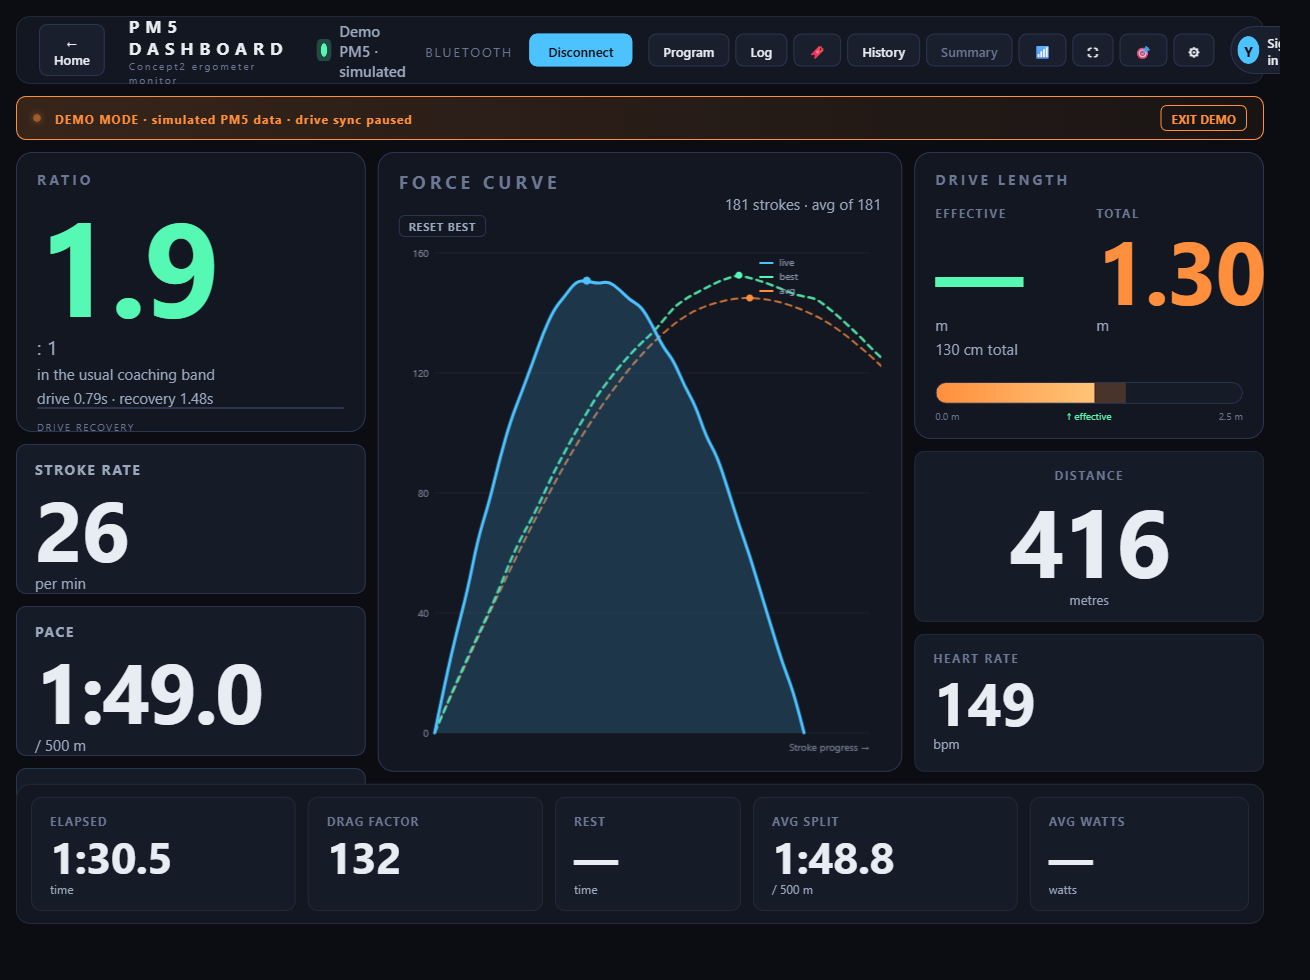
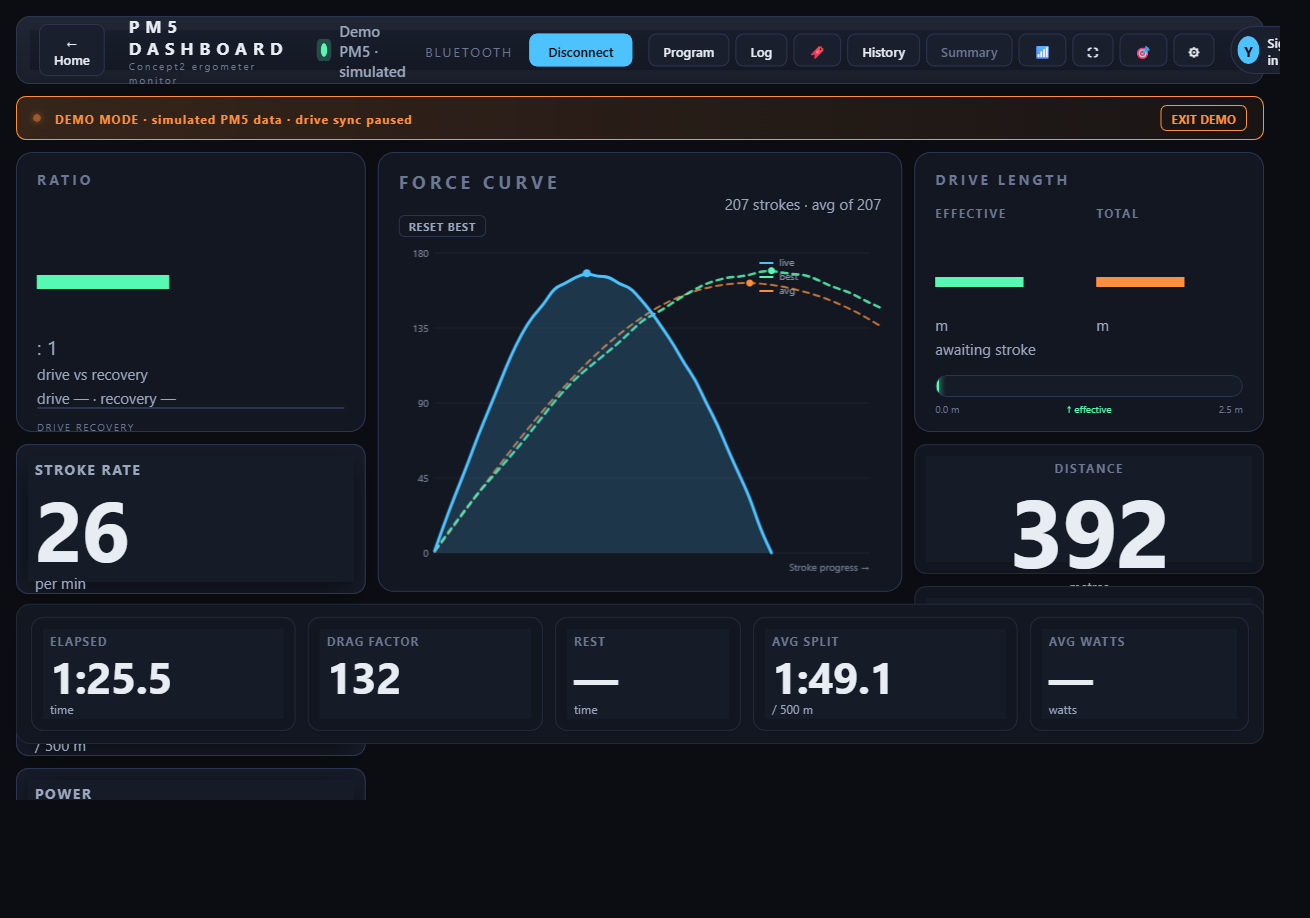
v1.17.0 — Live Monitor 2.0
Polish pass on the live rowing screen so it reads like a serious performance
display. CSS-only — no PM5/Bluetooth parsing or metric math changed.

- Stable telemetry: big live numbers (metric cards + fullscreen race mode)
  use tabular figures so digits don't jitter width stroke-to-stroke.
- Card hierarchy: subtle depth on every metric card + a stronger lift on
  primary cards (consistent with v1.16.0), rounder corners.
- Theme-safe target zones: in/near/out tints were hardcoded green/amber/red
  (wrong on Crimson/Forest/Ocean/Light) — now a calm theme-derived left
  accent (var(--good)/var(--accent-2)/var(--warn)), no flashing. Same fix for
  the Heart focus-preset pill.
- Workout progress bar: gradient panel + crisper border + soft fill glow.
- Mobile fix: the fixed 3-column monitor grid had no phone breakpoint and
  overflowed horizontally below ~520px; it now collapses to a single
  scrollable column at <=600px so cards stack full-width with no overflow.

Verified in Demo Mode (force curve, cards, race mode) at desktop + 375px;
replay / history / Performance unregressed. Refreshed live-monitor.png (demo
data). Bundle 597 -> 598 KB (under the 600 KB guard). No club / Firestore /
security changes; firestore.rules untouched.

diff --git a/pm5web/index.html b/pm5web/index.html
@@ -168,18 +168,33 @@
     height: 100%;
     min-height: 0;
   }
+  /* v1.17.0 — phones: collapse the fixed 3-column monitor grid to a single
+     scrollable column so metric cards stack full-width with no horizontal
+     overflow (2fr/3fr/2fr + 160px card min-width overflowed below ~520px). */
+  @media (max-width: 600px) {
+    #monitorView.active {
+      grid-template-columns: 1fr;
+      grid-template-rows: none;
+      overflow-y: auto;
+    }
+    #monitorView.active .left-col,
+    #monitorView.active .center-col,
+    #monitorView.active .right-col { height: auto; }
+    #monitorView.active .hero { min-height: 0; }
+  }
 
   /* Workout progress bar (top of monitor view) */
   .workout-bar {
     grid-column: 1 / -1;
-    background: var(--bg-panel);
-    border: 1px solid var(--border);
+    background: linear-gradient(180deg, var(--bg-panel-hi), var(--bg-panel));
+    border: 1px solid var(--border-bright);
     border-radius: 12px;
     padding: 12px 18px;
     display: flex;
     align-items: center;
     gap: 18px;
     min-height: 68px;
+    box-shadow: 0 2px 10px -4px rgba(0,0,0,.35);
   }
   .wb-info {
     display: flex;
@@ -207,16 +222,17 @@
     min-width: 0;
   }
   .wb-progress {
-    height: 14px;
-    background: var(--bg-card);
+    height: 15px;
+    background: var(--bg-base);
     border: 1px solid var(--border-bright);
-    border-radius: 7px;
+    border-radius: 8px;
     overflow: hidden;
   }
   .wb-progress-fill {
     height: 100%;
     width: 0%;
     background: linear-gradient(90deg, var(--accent), var(--accent-3));
+    box-shadow: 0 0 10px -1px var(--accent);
     transition: width .25s;
   }
   .wb-progress-labels {
@@ -484,8 +500,8 @@
                                             border-color: var(--accent-3); }
   .focus-card.theme-power     .mp-primary { background: var(--accent-2);
                                             border-color: var(--accent-2); }
-  .focus-card.theme-heart     .mp-primary { background: #ff6b6b;
-                                            border-color: #ff6b6b; }
+  .focus-card.theme-heart     .mp-primary { background: var(--warn);
+                                            border-color: var(--warn); }
   .focus-card.theme-race      .mp-primary { background: var(--accent-2);
                                             border-color: var(--accent-2); }
   .focus-card .fc-active-badge {
@@ -918,13 +934,14 @@
   .card {
     background: var(--bg-card);
     border: 1px solid var(--border);
-    border-radius: 10px;
+    border-radius: 12px;
     padding: 14px 18px;
     min-height: 96px;
     display: flex;
     flex-direction: column;
     flex: 1 1 auto;          /* grow + shrink with the column */
     min-width: 160px;
+    box-shadow: 0 1px 3px rgba(0,0,0,.18);
   }
   .card .lab {
     color: var(--text-dim);
@@ -940,6 +957,10 @@
     margin-top: 4px;
     letter-spacing: -0.5px;
     line-height: 1.05;
+    /* Tabular figures keep big live numbers from jittering width as
+       digits change stroke-to-stroke — the key "stable telemetry" feel. */
+    font-variant-numeric: tabular-nums;
+    font-feature-settings: "tnum";
   }
   .card .u {
     color: var(--text-muted);
@@ -957,6 +978,7 @@
     background: var(--bg-card);
     border-color: var(--border-bright);
     min-height: 150px;
+    box-shadow: 0 8px 26px -12px rgba(0,0,0,.5);
   }
   .card.tier-primary .lab { font-size: 14px; color: var(--text-muted); }
   .card.tier-primary .val { font-size: 84px; letter-spacing: -2px; }
@@ -2444,14 +2466,13 @@
 
   /* ============ Batch v1.5.0: live monitor tools ============ */
 
-  /* Target-zone tinting on metric cards (#9). A left border + faint
-     wash, kept off the value colour so it doesn't fight getColor. */
-  .card.tz-in   { border-left: 3px solid #56f9b3;
-                  box-shadow: inset 2px 0 0 rgba(86,249,179,0.15); }
-  .card.tz-near { border-left: 3px solid #ffcc55;
-                  box-shadow: inset 2px 0 0 rgba(255,204,85,0.15); }
-  .card.tz-out  { border-left: 3px solid #ff6b6b;
-                  box-shadow: inset 2px 0 0 rgba(255,107,107,0.15); }
+  /* Target-zone status on metric cards (#9) — a clear but calm left
+     accent in the zone colour, kept off the value so it doesn't fight
+     getColor. Theme-safe (was hardcoded green/amber/red); the card's own
+     box-shadow carries depth so this stays a flat, non-flashing cue. */
+  .card.tz-in   { border-left: 4px solid var(--good); }
+  .card.tz-near { border-left: 4px solid var(--accent-2); }
+  .card.tz-out  { border-left: 4px solid var(--warn); }
 
   /* Target-zone settings grid */
   .tz-toggle { display:flex; align-items:center; gap:8px;
@@ -2514,12 +2535,14 @@
   .race-primary .race-label { color:var(--text-dim); font-size:2vh;
     letter-spacing:3px; font-weight:700; }
   .race-primary .race-value { color:var(--accent); font-weight:800;
-    font-size:24vh; line-height:0.95; letter-spacing:-0.5vh; }
+    font-size:24vh; line-height:0.95; letter-spacing:-0.5vh;
+    font-variant-numeric:tabular-nums; font-feature-settings:"tnum"; }
   .race-secondary, .race-tertiary { display:flex; gap:6vw; flex-wrap:wrap;
     justify-content:center; }
   .race-cell { text-align:center; }
   .race-cell-label { color:var(--text-dim); font-size:1.6vh;
     letter-spacing:2px; font-weight:700; }
+  .race-cell-value { font-variant-numeric:tabular-nums; font-feature-settings:"tnum"; }
   .race-secondary .race-cell-value { color:var(--text); font-weight:700;
     font-size:8vh; line-height:1; }
   .race-tertiary .race-cell-value { color:var(--text-muted); font-weight:700;
@@ -4732,7 +4755,7 @@ const GOOGLE_CLIENT_ID = "651380880092-i6g4a0arq99ilr95jg185c5hlq7e144v.apps.goo
 // release-notes modal can fire on the first load after an update.
 // Released versions are listed in RELEASE_NOTES below — keep these
 // in sync with CHANGELOG.md in the repo.
-const APP_VERSION = "1.16.0";
+const APP_VERSION = "1.17.0";
 // Session record schema version (#12). Bump when the saved-entry shape
 // changes incompatibly so migrations have a foothold.
 const SESSION_SCHEMA_VERSION = 2;

diff --git a/pm5web/sw.js b/pm5web/sw.js
@@ -14,7 +14,7 @@
  * everything else, so authenticated Drive calls etc. always go live.
  */
 // Bump this when you redeploy to force a fresh shell on every client.
-const CACHE_VERSION = "pm5-v42";
+const CACHE_VERSION = "pm5-v43";
 const SHELL = [
   "./manifest.json",
   "./icon-192.png",

diff --git a/CHANGELOG.md b/CHANGELOG.md
@@ -10,6 +10,17 @@ The format follows [Keep a Changelog](https://keepachangelog.com/en/1.1.0/).
 - Session replay — stroke-by-stroke + force-curve scrubber (needs new per-stroke + force-curve capture first — see [known-issues](docs/known-issues.md))
 - AI technique analysis (peak-timing trends)
 
+## [v1.17.0] — June 2026 — Live Monitor 2.0
+
+A polish pass on the actual rowing screen — make it read like a serious performance display. CSS-only; **no PM5/Bluetooth parsing or metric math changed.**
+
+- **Stable telemetry numbers** — big live values (metric cards *and* fullscreen race mode) now use tabular figures, so digits don't jitter width as they change stroke-to-stroke.
+- **Clearer card hierarchy** — subtle depth on every metric card and a stronger lift on primary cards, consistent with the v1.16.0 theme polish; rounder corners.
+- **Theme-safe target zones** — in/near/out tints were hardcoded green/amber/red (wrong on Crimson/Forest/Ocean/Light); now a calm, theme-derived left accent (`var(--good)` / `var(--accent-2)` / `var(--warn)`) with no flashing. Same fix applied to the Heart focus preset's pill.
+- **Workout progress bar** — gradient panel + crisper border and a soft glow on the fill so the planned-workout bar reads as "live."
+- **Mobile fix** — the live monitor's fixed 3-column grid had no phone breakpoint and overflowed horizontally below ~520px; it now collapses to a single scrollable column at ≤600px so metric cards stack full-width with no overflow.
+- Verified in Demo Mode (force curve, cards, race mode) at desktop and 375px; replay, history, and Performance unregressed. Refreshed `live-monitor.png` (demo data). Bundle 597 → **598 KB** (under the 600 KB guard). No club / Firestore / security changes.
+
 ## [v1.16.0] — June 2026 — Visual Theme Refresh
 
 A focused visual-polish pass — depth, motion, and theme consistency — kept under the 600 KB guard with no behavior or feature changes.

diff --git a/README.md b/README.md
@@ -21,7 +21,7 @@
 
 > Open in Chrome or Edge on a desktop or Android phone. Click **Connect**, pair the PM5 over Bluetooth, and row.
 
-**Current release: `v1.16.0`** ([changelog](CHANGELOG.md)) · single 597 KB `index.html`, no framework, no build step.
+**Current release: `v1.17.0`** ([changelog](CHANGELOG.md)) · single 598 KB `index.html`, no framework, no build step.
 
 ---
 
@@ -179,7 +179,7 @@ The part I'd want a reviewer to see first:
 |                                  |               |
 |----------------------------------|---------------|
 | Lines of code (web app)          | **~13,600** (single `index.html`) |
-| Shipped bundle                   | **597 KB**    |
+| Shipped bundle                   | **598 KB**    |
 | Live metrics                     | **48**        |
 | Of those, heart-rate metrics     | **20**        |
 | Focus presets                    | **6**         |
@@ -192,7 +192,7 @@ The part I'd want a reviewer to see first:
 | Render time (mid-tier hardware)  | < 10 ms       |
 | Offline-capable                  | yes (after first load) |
 | Crash-resistant                  | yes (auto-save recovery every 5 s) |
-| Released versions                | **24** (v1.0.0 → v1.16.0; [changelog](CHANGELOG.md)) · 7 git tags |
+| Released versions                | **25** (v1.0.0 → v1.17.0; [changelog](CHANGELOG.md)) · 7 git tags |
 | Total commits                    | **48** ([activity](https://github.com/cbikkula/pm5-dashboard/commits/main)) |
 | Server I run                     | **none** — serverless by design (Firebase Spark, **$0/mo**) |
 

diff --git a/docs/feature-backlog.md b/docs/feature-backlog.md
@@ -40,6 +40,7 @@ To pull the next item: open a chat with me and say `do backlog #N`. I'll build i
 | 32 | ✅ done v1.13.0 | Workout assignment to lineups          | Assign a practice workout to a lineup / team / squad / club / athlete (saved plan or free text, rate/split/HR targets, focus tags, coach-private + athlete-visible notes). New `workoutAssignments` subcollection + rules; athlete *Today's assignment* view; no personal history copied into club data. |
 | 33 | ✅ done v1.14.0 | Performance page Phase 2               | Real Overview (7/30-day rollups + best session + trend), Personal Records surfaced from Settings, benchmark-progress sparklines, fatigue + HR summaries, technique trends, real Insights. Pure analytics over saved history; no chart library. *Delivers the L13 Overview / Personal Records / Benchmark Progress / Fatigue / Technique sections.* |
 | 34 | ✅ done v1.16.0 | Visual theme refresh + UI polish       | Premium depth/motion pass under the bundle guard: theme-safe button hover/press (fixed a cross-theme hardcoded-colour bug), frosted modal backdrop + elevation, menu-card hover lift, header gradient, themed scrollbars. No behavior or feature changes; all 8 themes + live monitor + Performance + Replay verified intact at desktop and 375px. |
+| 35 | ✅ done v1.17.0 | Live Monitor 2.0 / race-display polish | Training-screen refinement: tabular live numbers (cards + race mode) so digits don't jitter, stronger primary-card hierarchy + depth, theme-safe target-zone tints, gradient/glow workout progress bar. **Mobile fix:** the fixed 3-column monitor grid had no phone breakpoint and overflowed below ~520px — now collapses to a single scrollable column at ≤600px. CSS-only; no BLE/metric-calc changes. Verified in Demo Mode at desktop + 375px. |
 
 ## Long-term roadmap
 